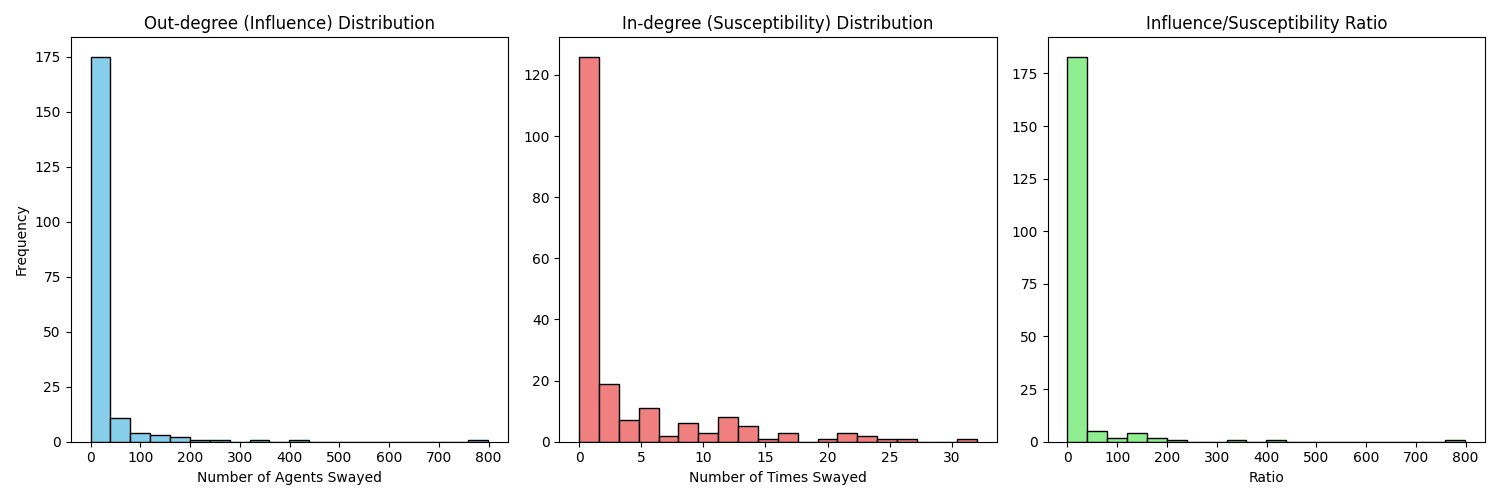
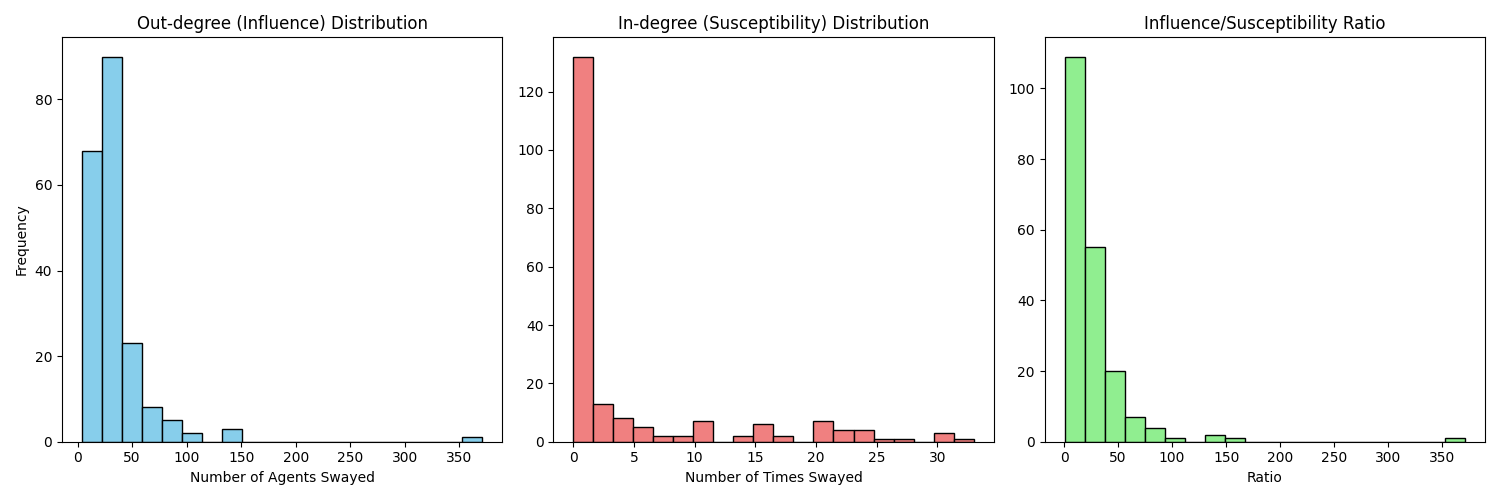
virality+grounding

diff --git a/input_layer.py b/input_layer.py
@@ -83,27 +83,42 @@ def get_world_state(user_input: str) -> Tuple[torch.Tensor, float, bool]:
         "required": ["Reasoning", "Urgency", "Is_Personal"] + DIMENSIONS,
     }
 
-    # 2. The System Prompt (The "Magnitude Rubric")
+    # 2. The System Prompt (The "Magnitude Rubric" and Few-Shot Calibration)
     system_instruction = """
-    You are an objective 'World Model Engine'. Analyze the input event and quantify its impact.
+    You are an objective 'World Model Engine'. Analyze the input event and quantify its impact on society or the individual across 12 dimensions.
 
-    ### 1. THE MAGNITUDE RUBRIC (Apply INDIVIDUALLY to each dimension):
+    ### 1. CALIBRATION NOTES & THE MAGNITUDE RUBRIC
+    You must be highly calibrated. Do NOT exaggerate minor events. 
+    Use this scale strictly:
     *   0.0: Neutral / No Relevance.
-    *   ±0.1 - 0.2 (Routine): Minor fluctuations, local news, weather.
-    *   ±0.3 - 0.5 (Significant): Recession fears, major protests, hurricanes.
-    *   ±0.6 - 0.8 (Crisis/Boom): 2008 Market Crash, Pandemic Lockdown, War.
-    *   ±0.9 - 1.0 (Civilization Altering): Asteroid impact, Nuclear War, AGI Singularity.
+    *   ±0.1 - 0.2 (Routine/Minor): Local news, minor tech updates, standard political speeches, mild weather.
+    *   ±0.3 - 0.5 (Significant): National protests, major corporate bankruptcy, hurricane making landfall, significant election results.
+    *   ±0.6 - 0.8 (Crisis/Boom): 2008 Global Financial Crash, COVID-19 Pandemic lockdowns, outbreak of war between major nations.
+    *   ±0.9 - 1.0 (Civilization Altering): Asteroid impact, Global Nuclear War, AGI Singularity, Alien Contact.
 
-    *Constraint:* Do not be alarmist. A "Scale 2" earthquake is -0.1 or -0.2 Safety, not -0.9.
+    *Crucial Notes on Dimensions:*
+    - **Stability / Physical_Safety:** Do not give negative scores just because a situation is "tense." Only lower safety if physical harm is occurring or imminent.
+    - **Wealth:** Consider the macro-economic scale unless it is a "Personal" event. A single CEO losing money is NOT -0.5 societal wealth.
+    - **Fairness / Care:** High values mean justice/empathy is being upheld. Negative values mean injustice/cruelty is occurring.
 
-    ### 2. URGENCY (Time Pressure):
-    *   0.0: Strategic planning possible. ex Geopoltical Relations
-    *   0.5: Near future with low planning time. ex Interviews
-    *   1.0: "Fight or Flight" immediate reaction required. ex Earthquake, cyber attack
+    ### 2. URGENCY (Time Pressure)
+    *   0.0: Historical event, slow-moving trend (e.g., demographic aging).
+    *   0.5: Requires attention soon, but not an immediate emergency (e.g., upcoming election, new tax law next year).
+    *   1.0: "Fight or Flight", immediate reaction required right now (e.g., active shooter, sudden massive earthquake, imminent missile strike).
 
-    ### 3. PERSONAL RELEVANCE:
-    *   Set "Is_Personal" to true ONLY if the text explicitly mentions "My", "I", "Me" (e.g., "My name in files").
-    *   "Trump in epstein files" is NOT personal. Leaders, Animals, Events etc are not personal
+    ### 3. PERSONAL RELEVANCE
+    *   Set "Is_Personal" to true ONLY if the text explicitly uses first-person pronouns ("My", "I", "Me") indicating the user is directly experiencing the event (e.g., "I just got fired").
+    *   Events happening to public figures, countries, or abstract groups (e.g., "Trump", "The Economy", "My country") are NOT personal.
+
+    ### 4. EXAMPLES (Few-Shot Grounding)
+    Input: "The Federal Reserve just announced a surprise 0.25% interest rate hike."
+    Output: Wealth: -0.2 (Minor economic drag), Stability: -0.1, Urgency: 0.3. Is_Personal: False. (Other dimensions near 0).
+
+    Input: "Global pandemic declared. All international flights grounded and mandatory lockdowns initiated."
+    Output: Physical_Safety: -0.7, Wealth: -0.8, Stability: -0.8, Freedom: -0.9 (Lockdowns), Urgency: 0.9. Is_Personal: False.
+
+    Input: "My boss just told me I am being laid off tomorrow."
+    Output: Wealth: -0.8 (Massive personal wealth loss), Stability: -0.8, Urgency: 0.8, Is_Personal: True.
 
     Output JSON only.
     """

diff --git a/research_paper_tests/test_maximum_virality.py b/research_paper_tests/test_maximum_virality.py
@@ -1,0 +1,70 @@
+import numpy as np
+import torch
+import sys
+import os
+
+# Add parent directory to path to import schema, etc.
+sys.path.append(os.path.dirname(os.path.dirname(os.path.abspath(__file__))))
+
+from schema import SimConfig
+from physics_engine import SocialPhysicsEngine
+
+def test_maximum_virality():
+    print("--- Running Maximum Virality Analysis ---")
+    
+    # Initialize physics engine
+    config = SimConfig()
+    phys_engine = SocialPhysicsEngine(config)
+    
+    N = 1000
+    
+    print("\n[ Scenario 1: Total Consensus (Everyone agrees) ]")
+    # Everyone has exact same emotion (e.g., Joy)
+    emotions_consensus = torch.zeros(N, 8)
+    emotions_consensus[:, 0] = 1.0 # Max Joy
+    
+    influence = torch.ones(N)
+    state_consensus = phys_engine.aggregate_society(emotions_consensus, influence)
+    print(f"Mean Outrage Multiplier (Virality): {state_consensus['mean_outrage_multiplier']}x")
+    print(f"Max Outrage Multiplier: {state_consensus['max_outrage_multiplier']}x")
+    
+    print("\n[ Scenario 2: High Polarization (50% vs 50%) ]")
+    emotions_polarized = torch.zeros(N, 8)
+    emotions_polarized[:500, 0] = 1.0 # 50% Joy
+    emotions_polarized[500:, 4] = 1.0 # 50% Anger
+    
+    state_polarized = phys_engine.aggregate_society(emotions_polarized, influence)
+    print(f"Mean Outrage Multiplier (Virality): {state_polarized['mean_outrage_multiplier']}x")
+    print(f"Max Outrage Multiplier: {state_polarized['max_outrage_multiplier']}x")
+    
+    print("\n[ Scenario 3: Extreme Outlier Rebellion ]")
+    # 95% of people feel moderate calmness, 5% are ABSOLUTELY OUTRAGED (max Anger + Disgust)
+    emotions_outlier = torch.zeros(N, 8)
+    emotions_outlier[:950, 0] = 0.2  # Moderate Joy/Calm
+    emotions_outlier[950:, 4] = 1.0  # Max Anger
+    emotions_outlier[950:, 5] = 1.0  # Max Disgust
+    
+    state_outlier = phys_engine.aggregate_society(emotions_outlier, influence)
+    print(f"Mean Outrage Multiplier (Virality): {state_outlier['mean_outrage_multiplier']}x")
+    print(f"Max Outrage Multiplier: {state_outlier['max_outrage_multiplier']}x")
+    
+    print("\n[ Scenario 4: Maximum Theoretical Virality ]")
+    # To maximize distance from center, we need the center to be 0, but outliers to be massive.
+    # Since emotions are softly capped in reality, we simulate a center far from an extreme emotion.
+    emotions_extreme = torch.zeros(N, 8)
+    emotions_extreme[:990] = torch.ones(8) * 0.1 # Very bland society
+    emotions_extreme[990:] = torch.ones(8) * 10.0 # Mathematically impossible but proves the sigmoid bounds
+    
+    state_extreme = phys_engine.aggregate_society(emotions_extreme, influence)
+    print(f"Mean Outrage Multiplier (Virality): {state_extreme['mean_outrage_multiplier']}x")
+    print(f"Max Outrage Multiplier: {state_extreme['max_outrage_multiplier']}x")
+    
+    print("\n--- Why is your interaction always near 1.1x? ---")
+    print("In your 'outrage_boost' formula: 1.0 + max_multiplier * torch.sigmoid(outrage_gain * (distances - midpoint))")
+    print(f"Midpoint = {config.saturation_midpoint}")
+    print(f"If agent emotional distance from the societal center is much less than {config.saturation_midpoint},")
+    print("the sigmoid outputs a very small number. In normal simulations without extreme polarization,")
+    print("most agents feel similarly, keeping the 'distances' low, so the outrage boost is minimal (~1.0 - 1.2x).")
+
+if __name__ == "__main__":
+    test_maximum_virality()
